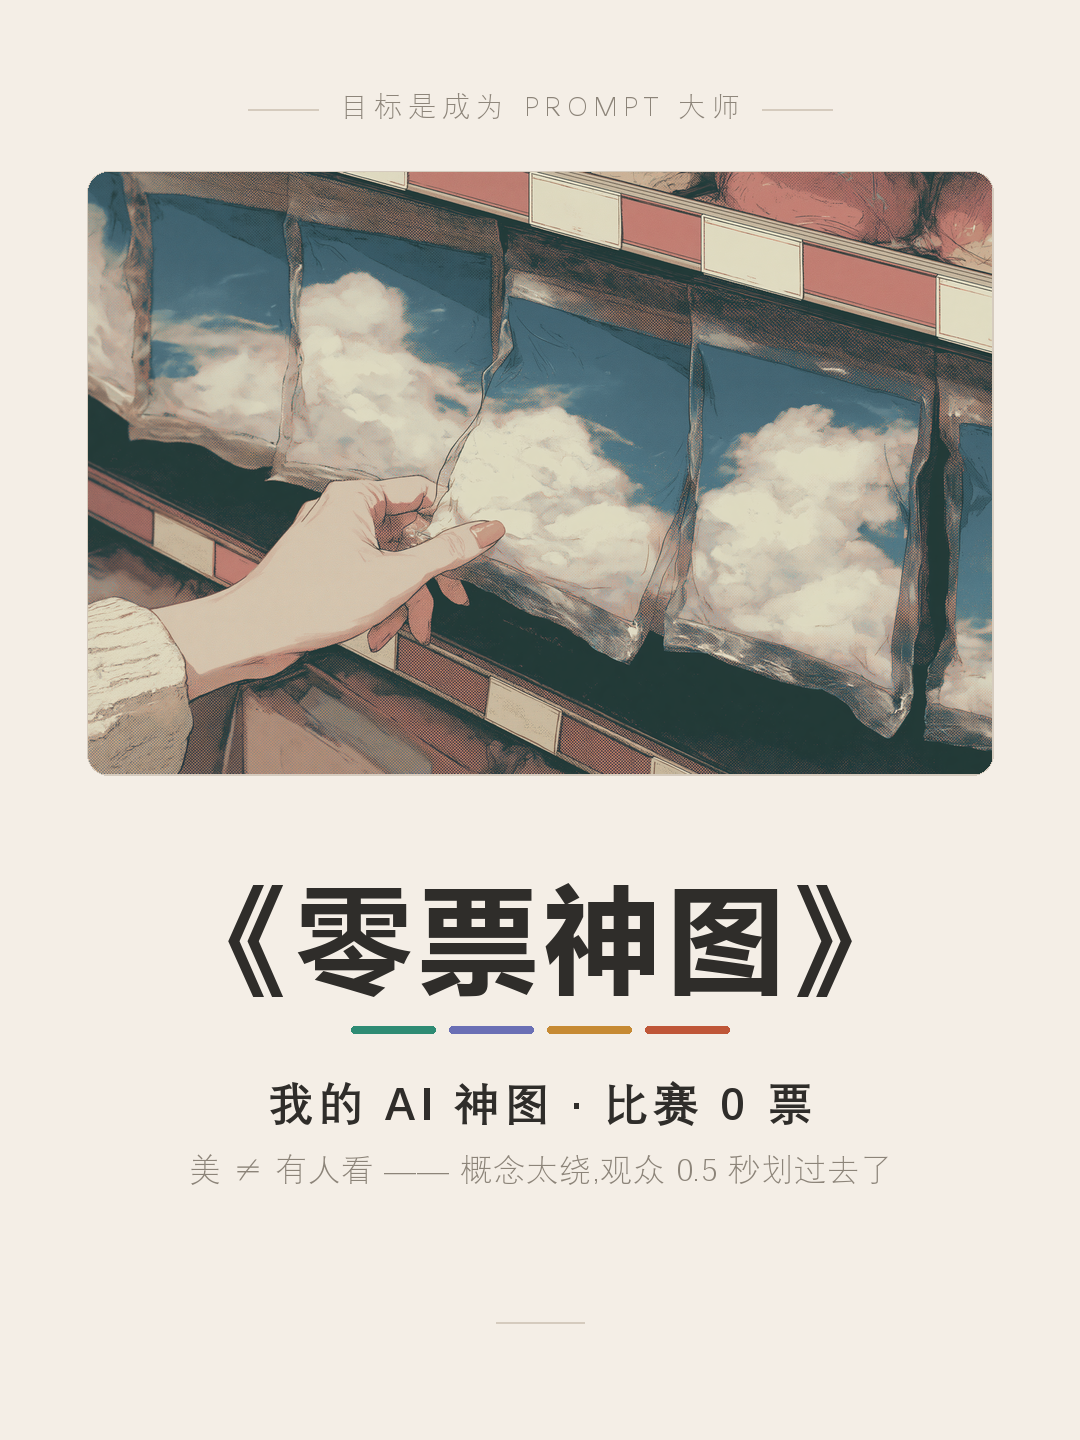
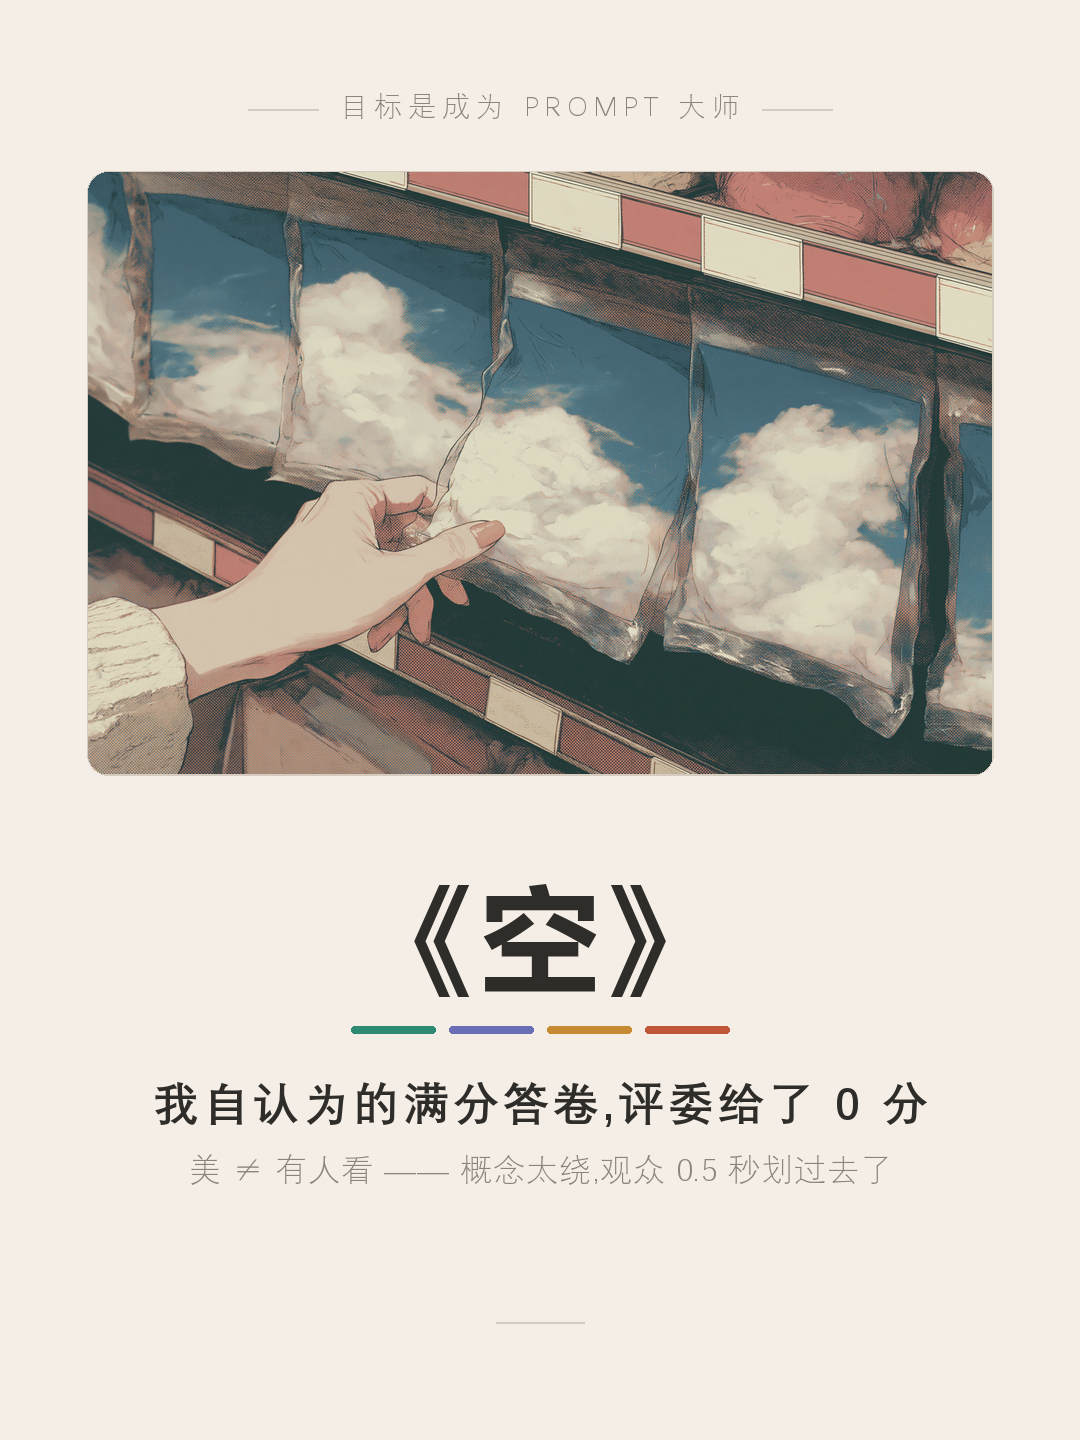
第8期标题改为《空》+ 文案收敛(去自封神图)
- 大标题《零票神图》→《空》(题目);主标改「我自认为的满分答卷,评委给了0分」考试比喻
- 不贬低冠军:朴素→「又美又简单,所以拿冠军」;结尾「与你共勉」
- 不放他人冠军图(仅文字提及);封面卡重新生成
- 文件夹/文件名内部代号沿用「零票神图」

Changed region(s): [[0.2139, 0.5938, 0.7944, 0.6875], [0.1528, 0.75, 0.7944, 0.7812], [0.825, 0.75, 0.8556, 0.7812]]

diff --git a/index.html b/index.html
@@ -264,8 +264,8 @@
       prompt:"cinematic photograph, a convenience store at 3am, glossy tiled floor, a tired night-shift cleaner in uniform leaning on his mop, head bowed, small and weary, a single hard light throws his huge shadow onto the clean bright wall behind him, the wall shadow transforms into a proud towering knight in a flowing cape, both hands resting on a great planted sword, the mop handle becoming the sword, crisp sharp-edged shadow, high contrast, clean readable wall, warm amber light, photographic, fine film grain --ar 3:4 --v 8.1 --style raw --no text, watermark, logo, blurry shadow, matching shadow, haze, floating dream imagery, stars"
     },
     {
-      id:"ep08", no:"第 8 期", title:"《零票神图》", cat:"readable",
-      sub:"一张我超满意的图,比赛 0 票——美不是入场票,「一眼看懂」才是;附一个冷读者 0.5 秒自测。",
+      id:"ep08", no:"第 8 期", title:"《空》", cat:"readable",
+      sub:"我自认为的满分答卷,评委给了 0 分——美不是入场票,「一眼看懂」才是;附一个冷读者 0.5 秒自测。",
       folder:"08_零票神图",
       cover:"零票神图_封面卡.png", breakdown:"零票神图_冷读者测试卡.png", breakdownLabel:"冷读者 0.5 秒测试", original:"零票神图_原图.png",
       note:"零票神图_笔记.md", noteTitle:"第 8 期《零票神图》· 小白笔记",

diff --git a/08_零票神图/零票神图_小红书正文.md b/08_零票神图/零票神图_小红书正文.md
@@ -1,20 +1,22 @@
-【标题】我用 AI 做了张神图，比赛 0 票😶
+【标题】我自认为的满分答卷，评委给了 0 分😶
 
 【正文】
 
 今早 AI 出图比赛，主题就一个字：「空」。
 
-我做了张自己超满意的图——一排超市货架，每个真空包装袋里封着一片蓝天白云。一语双关：天空的空，真空的空。配色还是我最爱的复古 halftone。我和我的 AI 搭子都觉得：这把封神了。
+我交了张自己超满意的"答卷"——一排超市货架，每个真空包装袋里封着一片蓝天白云。一语双关：天空的空，真空的空。配色还是我最爱的复古 halftone。我和我的 AI 搭子都觉得：这卷子满分稳了。
 
 结果。零票。😶
 
-拿第一的是俩特别朴素的图：一个空鸟笼（鸟飞了），一个空钱包（没钱）。
+那大家都投给了谁？两张又美又简单的图：一个空荡荡的鸟笼（鸟飞了），一个瘪瘪的钱包（没钱）。
 
-但我必须说实话——我一点不冤。我自己那一票，就投给了钱包。
+**又美，又简单，所以人家拿了冠军。**
 
-是的，连我这个作者，轮到我当观众，用脚投票选的也是「一眼就戳到我」的那张，而不是需要细品的炫技图。我做图的时候，怎么就忘了我自己也是这样投票的？
+而我必须说句实话——我一点不冤。我自己那一票，就投给了钱包。
 
-想通了：不是我的图不好看，是**根本没人看懂**。我盯着它想了一早上，早知道答案了；可投票的人只有 0.5 秒，又不知道我在想啥。我一直在用「我自己的眼睛」替观众打分。这叫**知识的诅咒**。
+是的，连我这个作者，轮到我当观众，用脚投票选的也是「一眼就戳到我」的那张，而不是需要细品的炫技图。我做图的时候，怎么就忘了我自己也是这么投票的？
+
+想通了：不是我的图不好看，是**根本没人看懂**。我盯着它想了一早上，早知道答案了；可投票的人只有划过的 0.5 秒，又不知道我在想啥。我一直在用「我自己的眼睛」替别人打分。这叫**知识的诅咒**。
 
 所以我给自己定了个规矩，叫「冷读者 0.5 秒测试」👇（见图）
 
@@ -22,11 +24,14 @@
 
 **美是加分项，一眼看懂才是入场票。** 凡是做给别人看的东西，都适用。
 
-—— 这是《目标是成为 Prompt 大师》第 8 期，一篇用 0 票换来的有用帖。
+与你共勉。
+
+—— 《目标是成为 Prompt 大师》第 8 期，一篇用 0 票换来的笔记。
 
 #howto用好AI #AI绘画 #AIGC #普通人用AI #prompt @HOWTO薯
 
 【发布备注】
-- 必带主话题 #howto用好AI，已 @HOWTO薯，封面带「有用帖」钩子——对齐活动三条要求。
+- 必带主话题 #howto用好AI，已 @HOWTO薯，封面用「满分答卷却 0 分」考试比喻钩子——对齐活动三条要求。
 - 全程纯干货无导流话术，不踩小红书引流红线。
-- 配图顺序：封面卡 → 冷读者测试卡 →（可选）原图。
+- 配图顺序：封面卡《空》→ 冷读者测试卡 →（可选）我们自己的原图。
+- **不放他人冠军图**：鸟笼 / 钱包仅文字提及，不附原图，避免版权问题。

diff --git a/08_零票神图/零票神图_笔记.md b/08_零票神图/零票神图_笔记.md
@@ -1,4 +1,4 @@
-# 第 8 期《零票神图》· 小白笔记
+# 第 8 期《空》· 小白笔记
 
 > 这一期有点特别——前七期都在讲「怎么赢」，这一期讲一张**0 票**的图。
 > 但它可能是整个系列里最有用的一期。
@@ -33,12 +33,12 @@
 
 ## 二、冠军长这样（而且我心服口服）
 
-那天并列第一的是两张特别朴素的图：
+那天并列第一的是两张图：
 
 - 一个窗台上**打开的空鸟笼**（鸟飞了，所以是「空」）；
 - 一个地上**打开的空钱包**（没钱，所以是「空」）。
 
-没有什么炫技，没有双关，就是……你 0.1 秒就懂了。
+又美，又简单——你 0.1 秒就懂了，所以人家拿了冠军。它们一点都不丑，是真的好看。
 
 这里我要特别说一句实话：**我一点都不觉得冤，我自己那一票，就投给了钱包。**
 
@@ -97,6 +97,8 @@
 最后一句，也是这张卡的心法：
 
 > **美是加分项，一眼看懂才是入场票。**
+
+与你共勉。
 
 ---
 

diff --git a/README.md b/README.md
@@ -20,7 +20,7 @@
 | 第 5 期 | 《梦游困境》 | 超现实破题 | 题面两个词只做「困境」那个;踏空+退路断=两难;被嫌暗就整组换亮调复古未来 | [05_梦游困境](05_梦游困境/) |
 | 第 6 期 | 《叫不醒人的闹钟》 | 概念反讽 | 主语是闹钟但赢的不是闹钟;重定义「叫不醒」=人装睡;原子时代亮调裹窗外蘑菇云,亮裹险反讽 | [06_叫不醒人的闹钟](06_叫不醒人的闹钟/) |
 | 第 7 期 | 《深夜幻想家》 | 超现实破题 | 唯美题反题眼,不飘梦改用影子;保洁拄拖把,墙上影子是拄剑骑士;靠 transforms into+硬光+同构把影子掰开 | [07_深夜幻想家](07_深夜幻想家/) |
-| 第 8 期 | 《零票神图》 | 可读性校准 | 一张我超满意的图比赛 0 票;美不是入场票,「一眼看懂」才是;附冷读者 0.5 秒自测(系列首个方法论/反面教材期) | [08_零票神图](08_零票神图/) |
+| 第 8 期 | 《空》 | 可读性校准 | 我自认为的满分答卷评委给 0 分;美不是入场票,「一眼看懂」才是;附冷读者 0.5 秒自测(系列首个方法论/反面教材期) | [08_零票神图](08_零票神图/) |
 
 > 网站按「分类」组织:首页是封面墙(可按分类筛选),点开任意一期进入详情。新增一期 = 加一个文件夹 + 在 `index.html` 的 `EPISODES` 数组里加一条。
 
@@ -34,7 +34,7 @@
 - `XX_prompt拆解卡.png` —— prompt 四层标注图(方法论期改为 `XX_冷读者测试卡.png` 等方法卡)
 - `XX_原图.png` —— 作品原图
 
-> 封版 v1.6 · 2026-06-26(第 8 期《零票神图》上线;新增「可读性校准」分类。系列**首个方法论/反面教材期**——当日 morning PB 主题「空」的作品**零票**,从中提炼「冷读者 0.5 秒测试」;第二卡由 prompt 拆解卡改为方法卡(`冷读者测试卡`)。投稿小红书 #howto用好AI 活动,xhs 待回填。当日复盘见 `复盘记录/2026-06-26_morningPB双轮_空与黄昏晒屁股复盘.md`,沉淀「闪电战冷读者校准律_v1」「moodboard跨题材审美迁移_v1」入知识库)
+> 封版 v1.6 · 2026-06-26(第 8 期《空》上线(文件夹/文件名内部代号沿用「零票神图」);新增「可读性校准」分类。系列**首个方法论/反面教材期**——当日 morning PB 主题「空」的作品**零票**,从中提炼「冷读者 0.5 秒测试」;第二卡由 prompt 拆解卡改为方法卡(`冷读者测试卡`)。投稿小红书 #howto用好AI 活动,xhs 待回填。当日复盘见 `复盘记录/2026-06-26_morningPB双轮_空与黄昏晒屁股复盘.md`,沉淀「闪电战冷读者校准律_v1」「moodboard跨题材审美迁移_v1」入知识库)
 > 封版 v1.5 · 2026-06-24(第 6 期《叫不醒人的闹钟》+ 第 7 期《深夜幻想家》上线;新增「概念反讽」分类。两期均为当日 morning PB,**未夺冠**,按系列"不追结果、记录过程"理念收录;小红书**待发布**,index.html 的 xhs 链接留空待回填。当日复盘见 `复盘记录/2026-06-24_叫不醒人的闹钟+深夜幻想家_双题未夺冠复盘.md`,沉淀独立方法论「视觉欺骗的影子解耦渲染法_v1 ⚠️」入知识库)
 > 封版 v1.4 · 2026-06-23(第 5 期《梦游困境》上线;归入「超现实破题」分类;当日 PB 冠军图。小红书已发布标题「路呐 我问你路呐?」,xhs 链接已回填。注:抖音/快手不发教程,改发纯作品图文(题跋式封面,排版样式参考牧云人),资产见 `临时创作/2026-06-23_梦游困境_作品图文/`)
 > 封版 v1.3 · 2026-06-22(第 4 期《不受控制的床》上线;新增「超现实破题」分类。第 4 期小红书发布标题「我没上车啊 我没上车呢!」;同步更新第 3 期小红书链接)